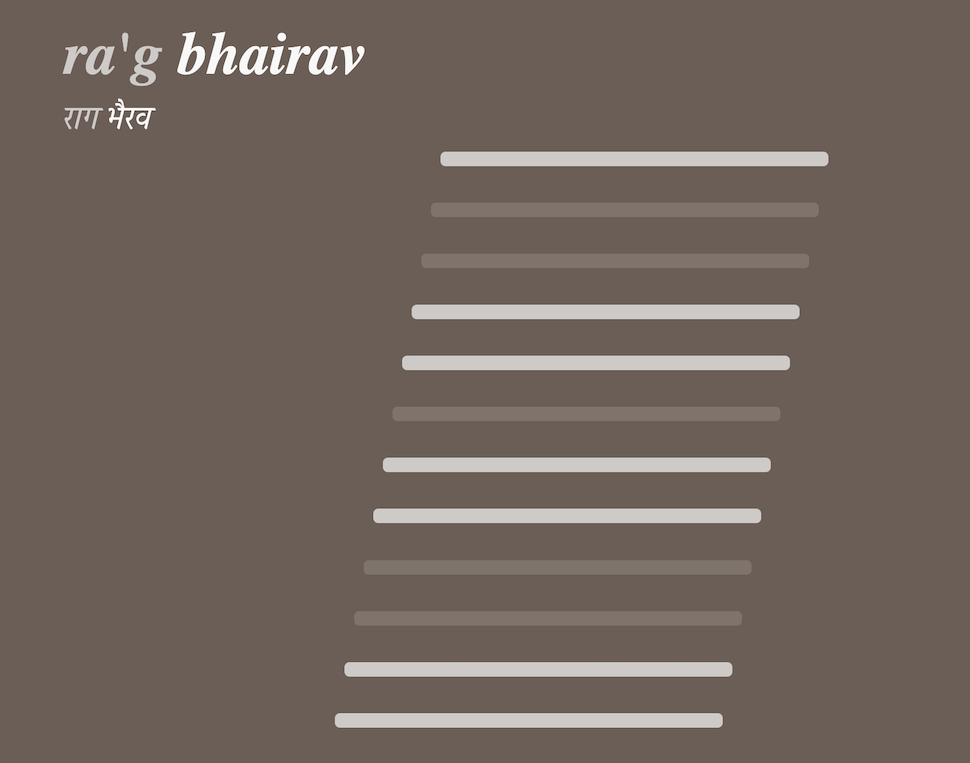
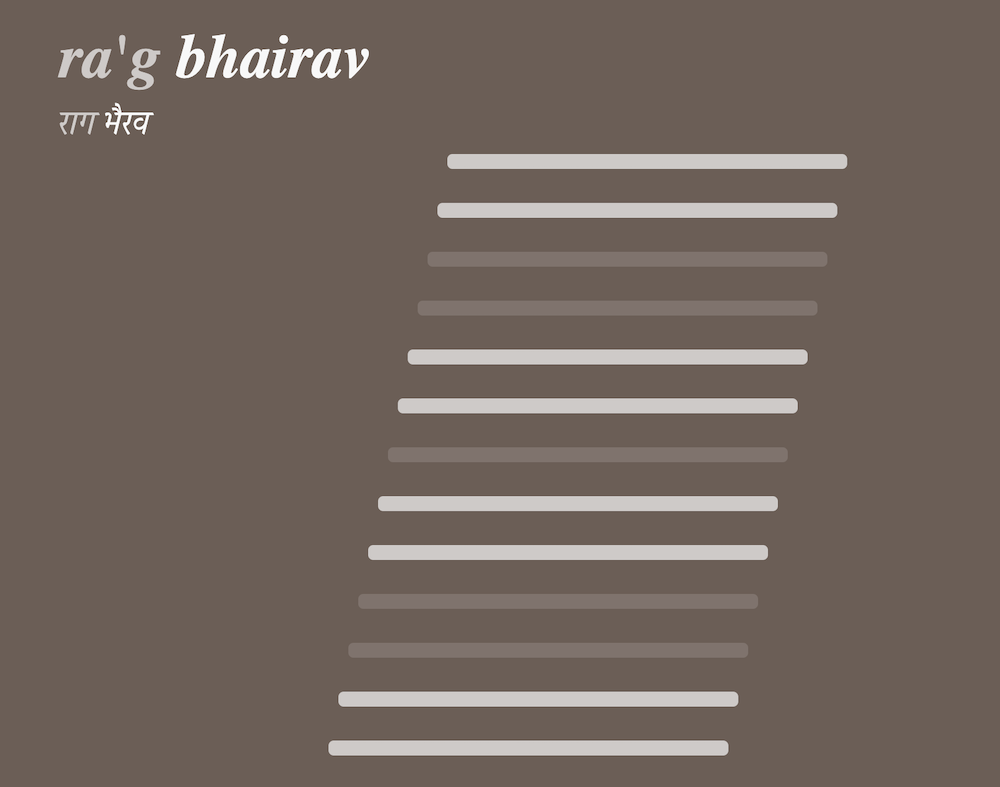
Include the last interval

diff --git a/pages/raag/raag-components.tsx b/pages/raag/raag-components.tsx
@@ -71,7 +71,11 @@ const T1 = styled.span`
 
 export const Ladder: React.FC<PropsWithSynthAndRaag> = ({ synth, raag }) => {
     const rootNote = raag.ladderRootNote;
-    const seq = () => noteSequence(raag.notes).reverse();
+    const seq = () =>
+        noteSequence(raag.notes)
+            /* Include the next octave so that we also show the last interval */
+            .concat([[12, true]])
+            .reverse();
     return (
         <Ladder_>
             {seq().map(([i, isNoteOnRaag]) =>
@@ -158,7 +162,7 @@ const LadderNote: React.FC<NoteProps> = ({ synth, rootNote, noteOffset }) => {
             $isPlaying={isPlaying}
             onClick={handleClick}
             onMouseEnter={handleMouseEnter}
-            style={{ marginInlineEnd: `${(12 - noteOffset) * 8}px` }}
+            style={{ marginInlineEnd: `${(13 - noteOffset) * 8}px` }}
         />
     );
 };
@@ -189,7 +193,7 @@ interface LadderBlankProps {
 }
 
 const LadderBlank: React.FC<LadderBlankProps> = ({ noteOffset }) => {
-    return <Blank_ style={{ marginInlineEnd: `${(12 - noteOffset) * 8}px` }} />;
+    return <Blank_ style={{ marginInlineEnd: `${(13 - noteOffset) * 8}px` }} />;
 };
 
 const Blank_ = styled.div`
